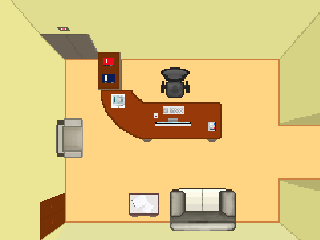
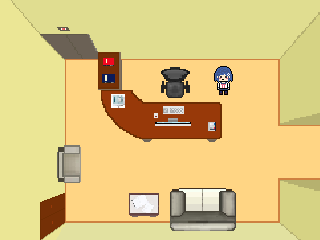
BugFix

Changed region(s): [[0.1562, 0.4667, 0.2812, 0.7875], [0.6562, 0.2625, 0.75, 0.4083]]

diff --git a/game.py b/game.py
@@ -1,7 +1,12 @@
 import pygame, time
-import params, main, player, Level_01, street, workRoom
+import params, main, player, Level_01, street, workRoom, computerRoom
 from config import cur, con
 from moviepy.editor import *
+
+dialogRooms = [
+    workRoom.NowLocation,
+    computerRoom.NowLocation
+]
 
 def run():
     global walls, activator, NowLocation, NowLocationRect, NowLocationBase
@@ -12,7 +17,7 @@ def run():
     NowLocationBase = 'Level_01.NowLocation'
     newXPos = Level_01.newXPos
     newYPos = Level_01.newYPos
-    NPSS = []
+    dialog_window = []
 
     running = True
     while running:
@@ -34,6 +39,15 @@ def run():
         # Обновление
         main.all_sprites.update()
         # Рендеринг
+
+        for event in pygame.event.get():
+            if event.type == pygame.KEYDOWN:
+                if event.key == pygame.K_f:
+                    params.switch += 1
+                if params.switch % 2 == 0:
+                    params.for_spawn_dialog_window = True
+                if params.switch % 2 == 1:
+                    params.for_spawn_dialog_window = False
 
         PlayerY = player.Player.getY(main.player)
         PlayerX = player.Player.getX(main.player)
@@ -64,6 +78,18 @@ def run():
             activator = workRoom.activator
             newXPos = workRoom.newXPos
             newYPos = workRoom.newYPos
+            dialog_window = workRoom.dialog_window
+
+        if PlayerY < 250 and NowLocation == workRoom.NowLocation:
+            NowLocation = computerRoom.NowLocation
+            NowLocationRect = computerRoom.NowLocationRect
+            NowLocationBase = 'computerRoom.NowLocation'
+            walls = computerRoom.walls
+            activator = computerRoom.activator
+            newXPos = computerRoom.newXPos
+            newYPos = computerRoom.newYPos
+            main.sprites_for_dialog = pygame.sprite.Group()
+            dialog_window = computerRoom.dialog_window
 
         for i in range(0, len(walls)):
             main.all_sprites.add(walls[i])
@@ -71,8 +97,10 @@ def run():
         for i in range(0, len(activator)):
             main.all_sprites.add(activator[i])
 
-        for i in range(0, len(NPSS)):
-            main.all_sprites.add(NPSS[i])
+        for i in range(0, len(dialog_window)):
+            main.sprites_for_dialog.add(dialog_window[i])
+
+        print(main.all_sprites)
 
         main.player.setWalls(walls)
         main.player.setActivator(activator)
@@ -80,18 +108,13 @@ def run():
         main.screen.blit(NowLocation, NowLocationRect)
         main.all_sprites.draw(main.screen)
 
-        if params.for_spawn_dialog_window == True:
-            main.sprites_for_dialog.update()
-            main.sprites_for_dialog.draw(main.screen)
+        if activatorChecker == True:
+            if params.for_spawn_dialog_window == True:
+                if NowLocation in dialogRooms:
+                    main.sprites_for_dialog.update()
+                    main.sprites_for_dialog.draw(main.screen)
 
-        for event in pygame.event.get():
-            if event.type == pygame.KEYDOWN:
-                if event.key == pygame.K_SPACE:
-                    params.switch += 1
-                if params.switch % 2 == 0:
-                    params.for_spawn_dialog_window = True
-                if params.switch % 2 == 1:
-                    params.for_spawn_dialog_window = False
+
 
         # После отрисовки всего, переворачиваем экран
         pygame.display.flip()

diff --git a/imports.py b/imports.py
@@ -3,6 +3,8 @@ import params
 
 blockImage = pygame.image.load('red.png')
 activatorImage = pygame.image.load('empty.png')
+firstDialog = pygame.image.load('dialoge 1.png')
+secondDialog = pygame.image.load('dialoge 2.png')
 
 room1 = pygame.image.load('DoorRooms/dveri_1.png')
 room1_scaled = pygame.transform.scale(room1, (params.WIDTH, params.HEIGHT))
@@ -15,6 +17,10 @@ street_scaled_rect = street_scaled.get_rect()
 workRoom = pygame.image.load('workRoom.png')
 workRoom_scaled = pygame.transform.scale(workRoom, (params.WIDTH, params.HEIGHT))
 workRoom_scaled_rect = workRoom_scaled.get_rect()
+
+computerRoom = pygame.image.load('computerRoom.png')
+computerRoom_scaled = pygame.transform.scale(computerRoom, (params.WIDTH, params.HEIGHT))
+computerRoom_scaled_rect = computerRoom_scaled.get_rect()
 
 labirint = pygame.image.load('labirint.png')
 labirint_scaled = pygame.transform.scale(labirint, (params.WIDTH, params.HEIGHT))

diff --git a/main.py b/main.py
@@ -14,7 +14,7 @@ clock = pygame.time.Clock()
 WIDTH = pygame.display.Info().current_w
 HEIGHT = pygame.display.Info().current_h
 
-dialog_window = [dialogs.dialog(1000, 300, 450, 650)]
+dialog_window = [dialogs.dialog(1000, 300, 450, 650, imports.blockImage)]
 
 all_sprites = pygame.sprite.Group()
 sprites_for_dialog = pygame.sprite.Group()
@@ -28,9 +28,6 @@ sprites_for_dialog = pygame.sprite.Group()
 
 #for i in range(0, len(walls)):
 #    all_sprites.add(walls[i])
-
-for i in range(0, len(dialog_window)):
-    sprites_for_dialog.add(dialog_window[i])
 
 player = player.Player()
 #player.setWalls(walls)

diff --git a/dialogs.py b/dialogs.py
@@ -4,11 +4,11 @@ import imports
 
 
 class dialog(pygame.sprite.Sprite):
-    def __init__(self, width, height, x, y):
+    def __init__(self, width, height, x, y, Image):
         # Конструктор платформ
         super().__init__()
         # Также указываем фото платформы
-        self.image = pygame.transform.scale(imports.blockImage, (width, height))
+        self.image = pygame.transform.scale(Image, (width, height))
         self.rect = pygame.Rect(width, height, x, y)
         self.rect.x = x
         self.rect.y = y

diff --git a/computerRoom.py b/computerRoom.py
@@ -1,8 +1,8 @@
 import pygame
 import params, Block, imports, Activator, NPS, dialogs
 
-NowLocation = imports.workRoom_scaled
-NowLocationRect = imports.workRoom_scaled_rect
+NowLocation = imports.computerRoom_scaled
+NowLocationRect = imports.computerRoom_scaled_rect
 
 walls = [
 
@@ -17,7 +17,7 @@ NPSSS = [
 ]
 
 dialog_window = [
-    dialogs.dialog(1300, 300, 450, 650, imports.firstDialog)
+    dialogs.dialog(1300, 300, 450, 650, imports.secondDialog)
 ]
 
 newXPos = 1700

diff --git a/params.py b/params.py
@@ -13,6 +13,6 @@ RED = (255, 0, 0)
 GREEN = (0, 255, 0)
 BLUE = (0, 0, 255)
 
-for_spawn_dialog_window = False
+for_spawn_dialog_window = True
 switch = 1
 
